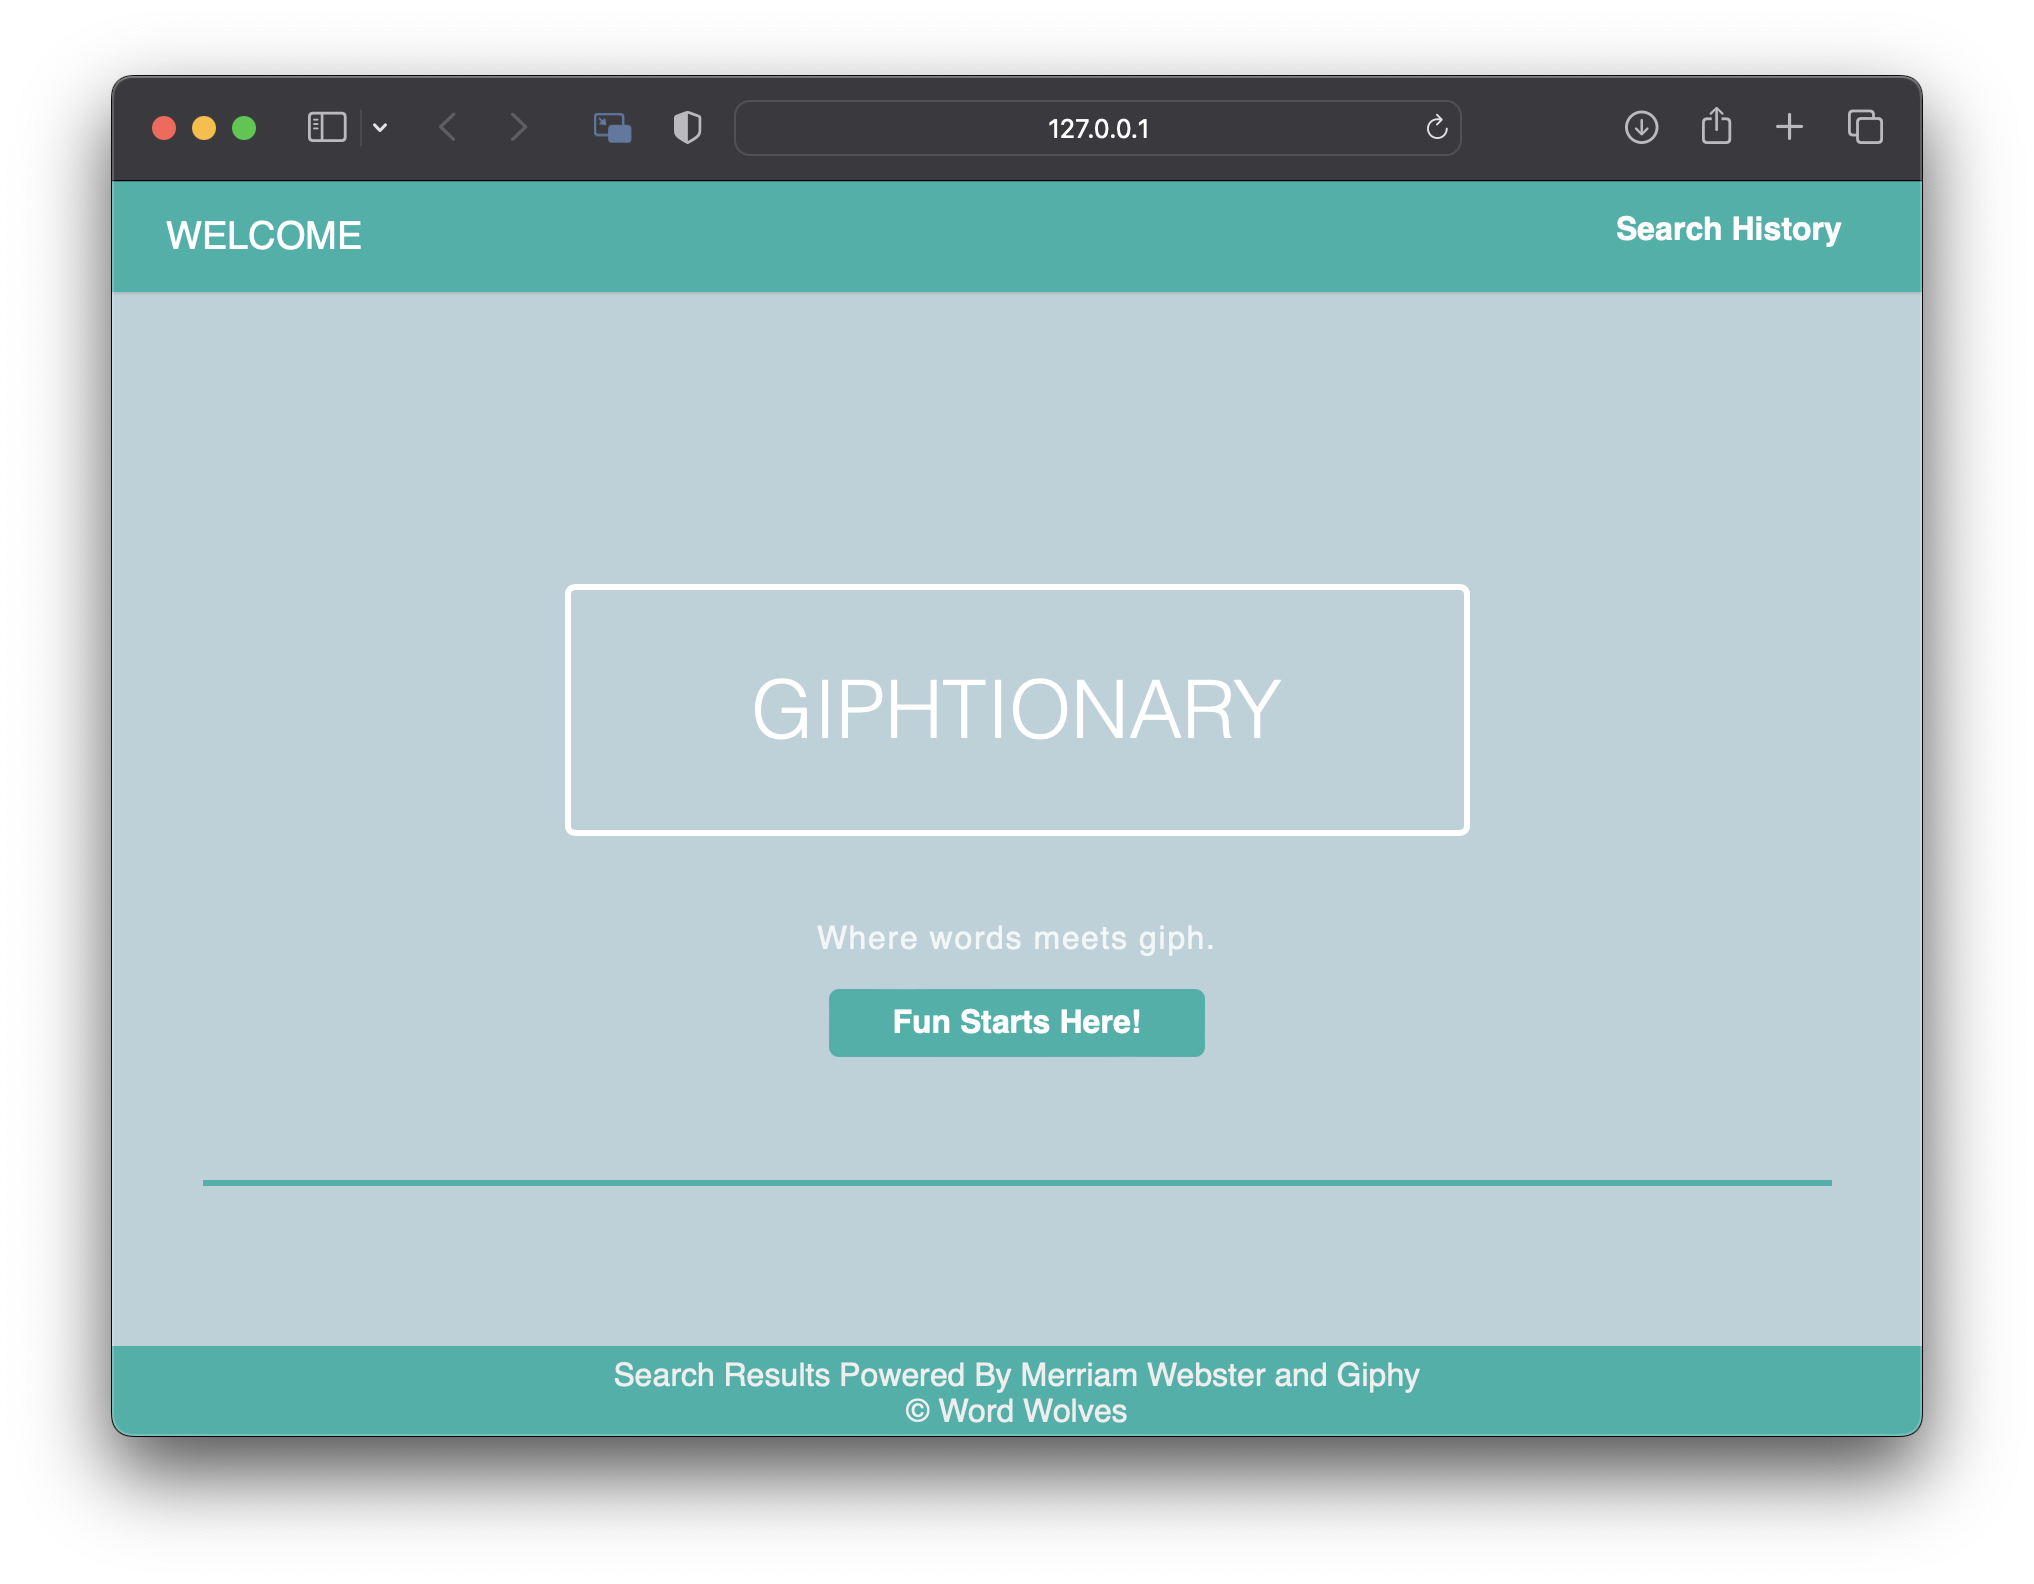
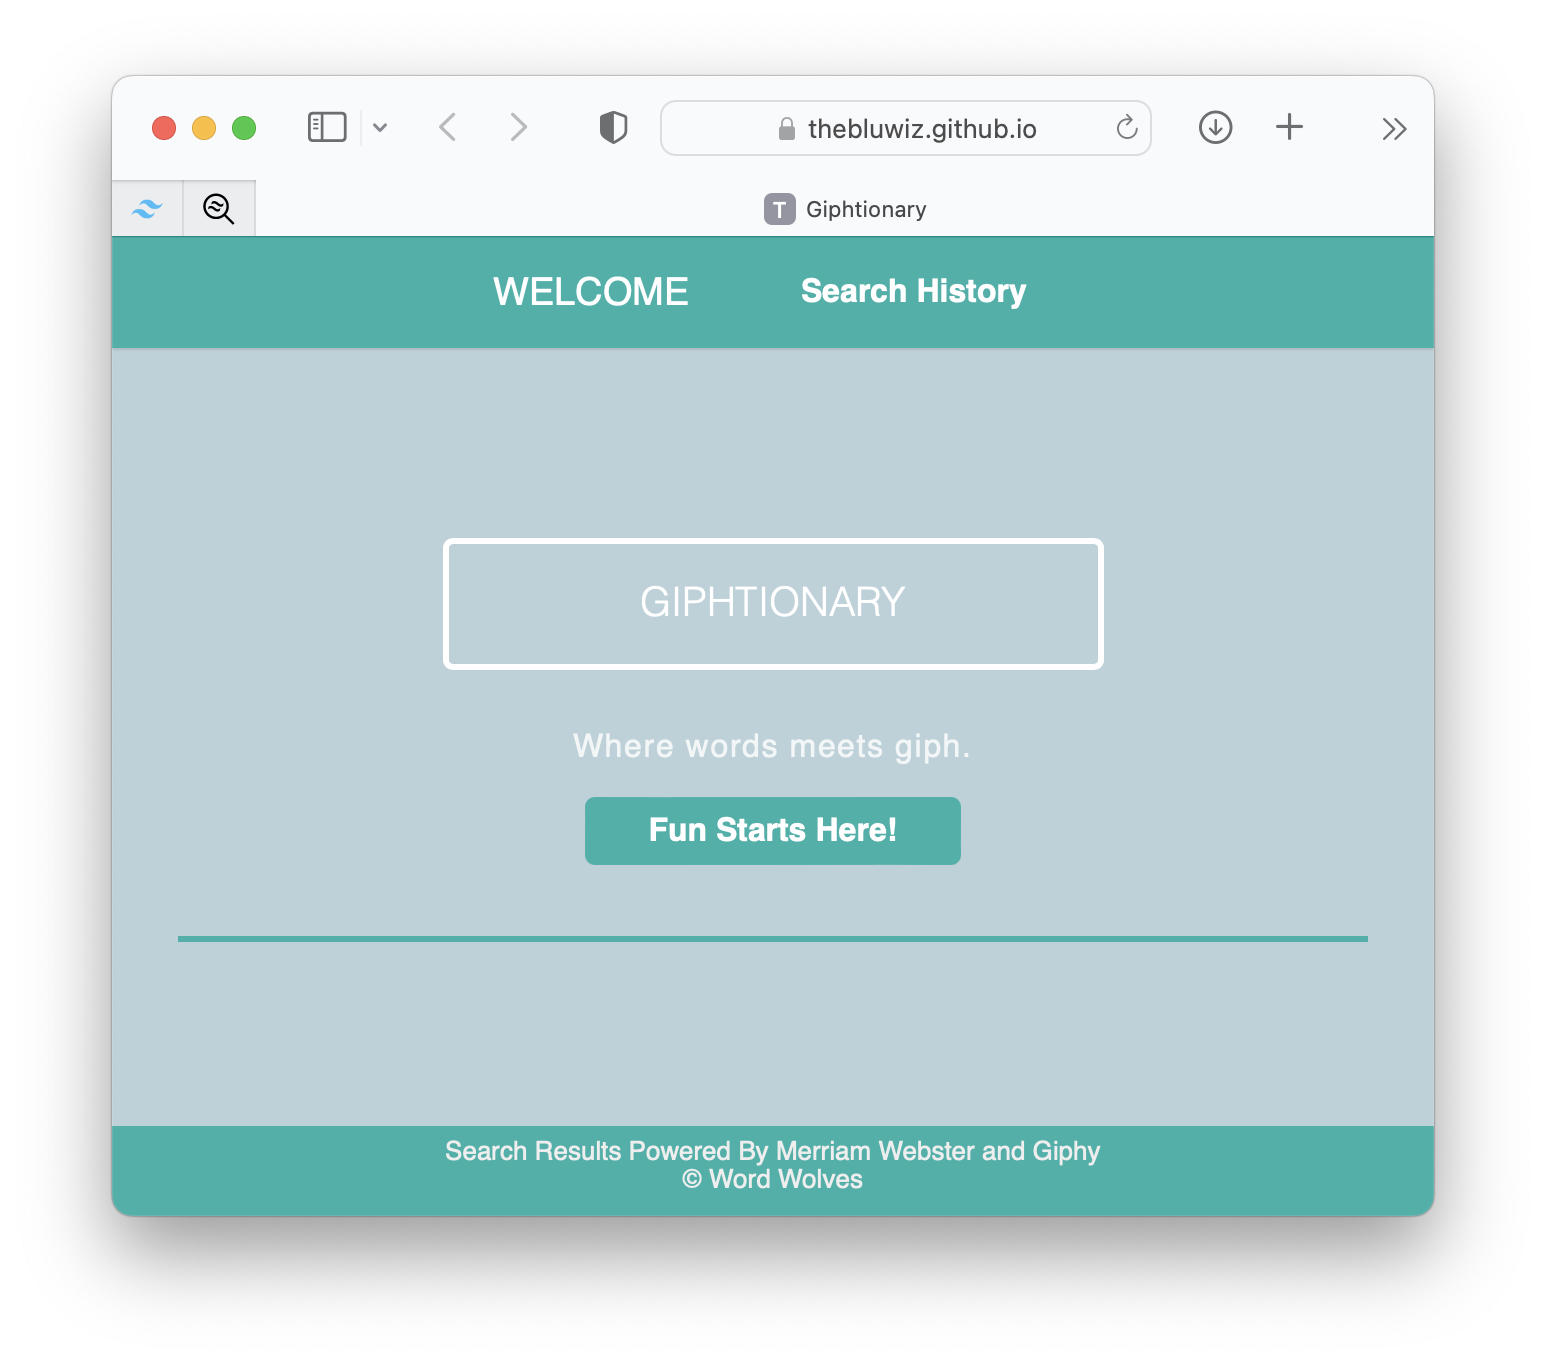
Adds array for portfolio. Displays website images

diff --git a/src/pages/Portfolio.js b/src/pages/Portfolio.js
@@ -1,9 +1,69 @@
-
+import devQuizPic from '../assets/images/dev-quiz.png';
+import giphtionaryPic from '../assets/images/giphtionary.png';
+import mailMeSeedsPic from '../assets/images/mail-me-seeds.png';
+import noteTaker from '../assets/images/note-taker.png';
+import teamProfileGenerator from '../assets/images/team-profile-generator.png';
+import techSpotBlot from '../assets/images/tech-spot-blot.png';
 
 
 
 export default function Contact() {
-  return (
-   <p>The Portfolio</p>
-  );
+  const cardArray = [
+    {
+      title: "Coding Quiz",
+      image: devQuizPic,
+      alt: 'Coding Quiz Challenge',
+      gitHub: 'https://github.com/TheBluWiz/devQuiz1',
+      deployed: 'https://thebluwiz.github.io/devQuiz1/'
+    },
+    {
+      title: "Giphtionary",
+      image: giphtionaryPic,
+      alt: 'Where words meet giphs',
+      gitHub: 'https://github.com/TheBluWiz/Giphtionary',
+      deployed: 'https://thebluwiz.github.io/Giphtionary/'
+    },
+    {
+      title: "Mail-Me-Seeds!",
+      image: mailMeSeedsPic,
+      alt: 'Welcome to Mail Me Seeds!',
+      gitHub: 'https://github.com/TheBluWiz/mail-me-seeds',
+      deployed: 'https://mail-me-seeds.herokuapp.com/'
+    },
+    {
+      title: "Note Taker",
+      image: noteTaker,
+      alt: 'Take Notes with Express',
+      gitHub: 'https://github.com/TheBluWiz/note-taker',
+      deployed: 'https://note-taker-service.herokuapp.com/'
+    },
+    {
+      title: "Team Profile Generator",
+      image: teamProfileGenerator,
+      alt: 'A grid of employee information',
+      gitHub: 'https://github.com/TheBluWiz/team-profile-generator',
+      deployed: '/'
+    },
+    {
+      title: "Tech Spot Blots",
+      image: techSpotBlot,
+      alt: 'Tech Spot Blots - A Blogging Site',
+      gitHub: 'https://github.com/TheBluWiz/tech-spot-blot',
+      deployed: 'https://tech-spot-blot.herokuapp.com'
+    }
+  ]
+
+
+  return cardArray.map((site) => {
+    return (
+      <div className='card'>
+        <div className='image'>
+          <img src={site.image} alt={site.alt}/>
+        </div>
+        <div className="Buttons">
+
+        </div>
+      </div>
+    )
+  });
 }
